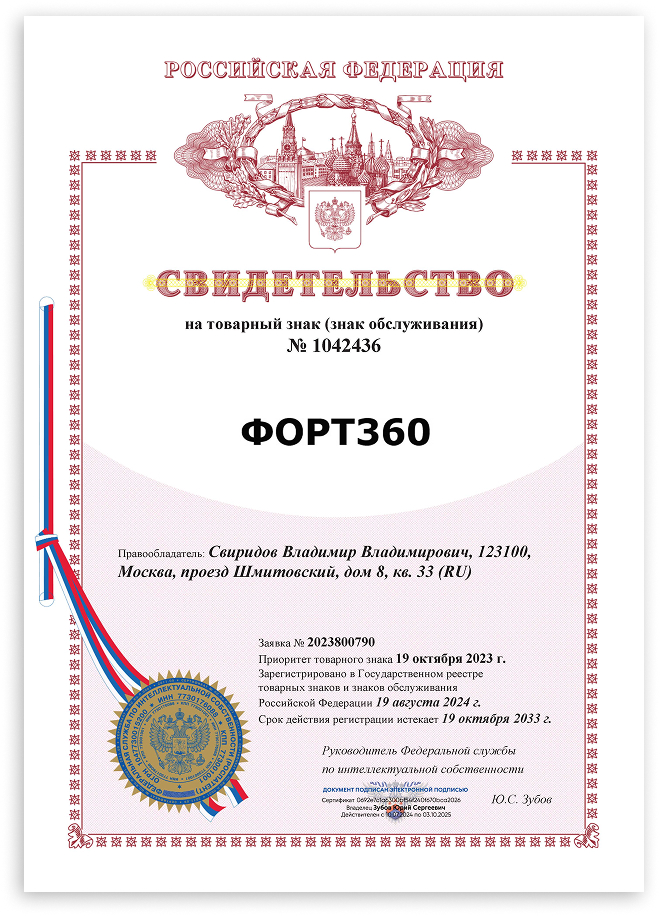
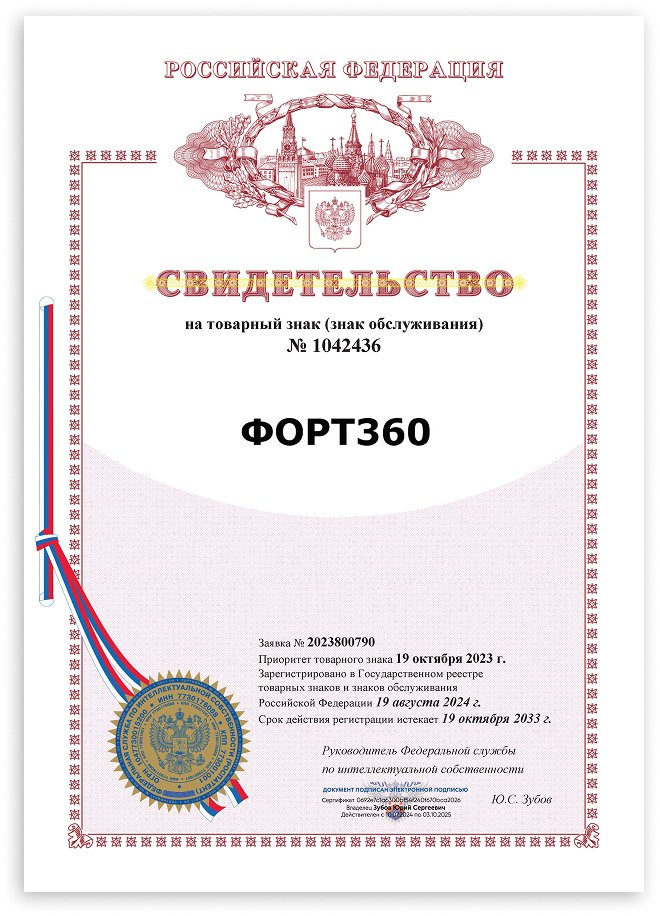
remove sensetive data from cert images

diff --git a/assets/js/modal-connect.js b/assets/js/modal-connect.js
@@ -105,7 +105,7 @@ document.addEventListener("DOMContentLoaded", () => {
       submitButton.disabled = true;
 
       try {
-          const url = 'http://tsg:9850/portal/support/'
+          const url = '/portal/support/'
           const response = await fetch(url, {
               method: 'POST',
               headers: {
